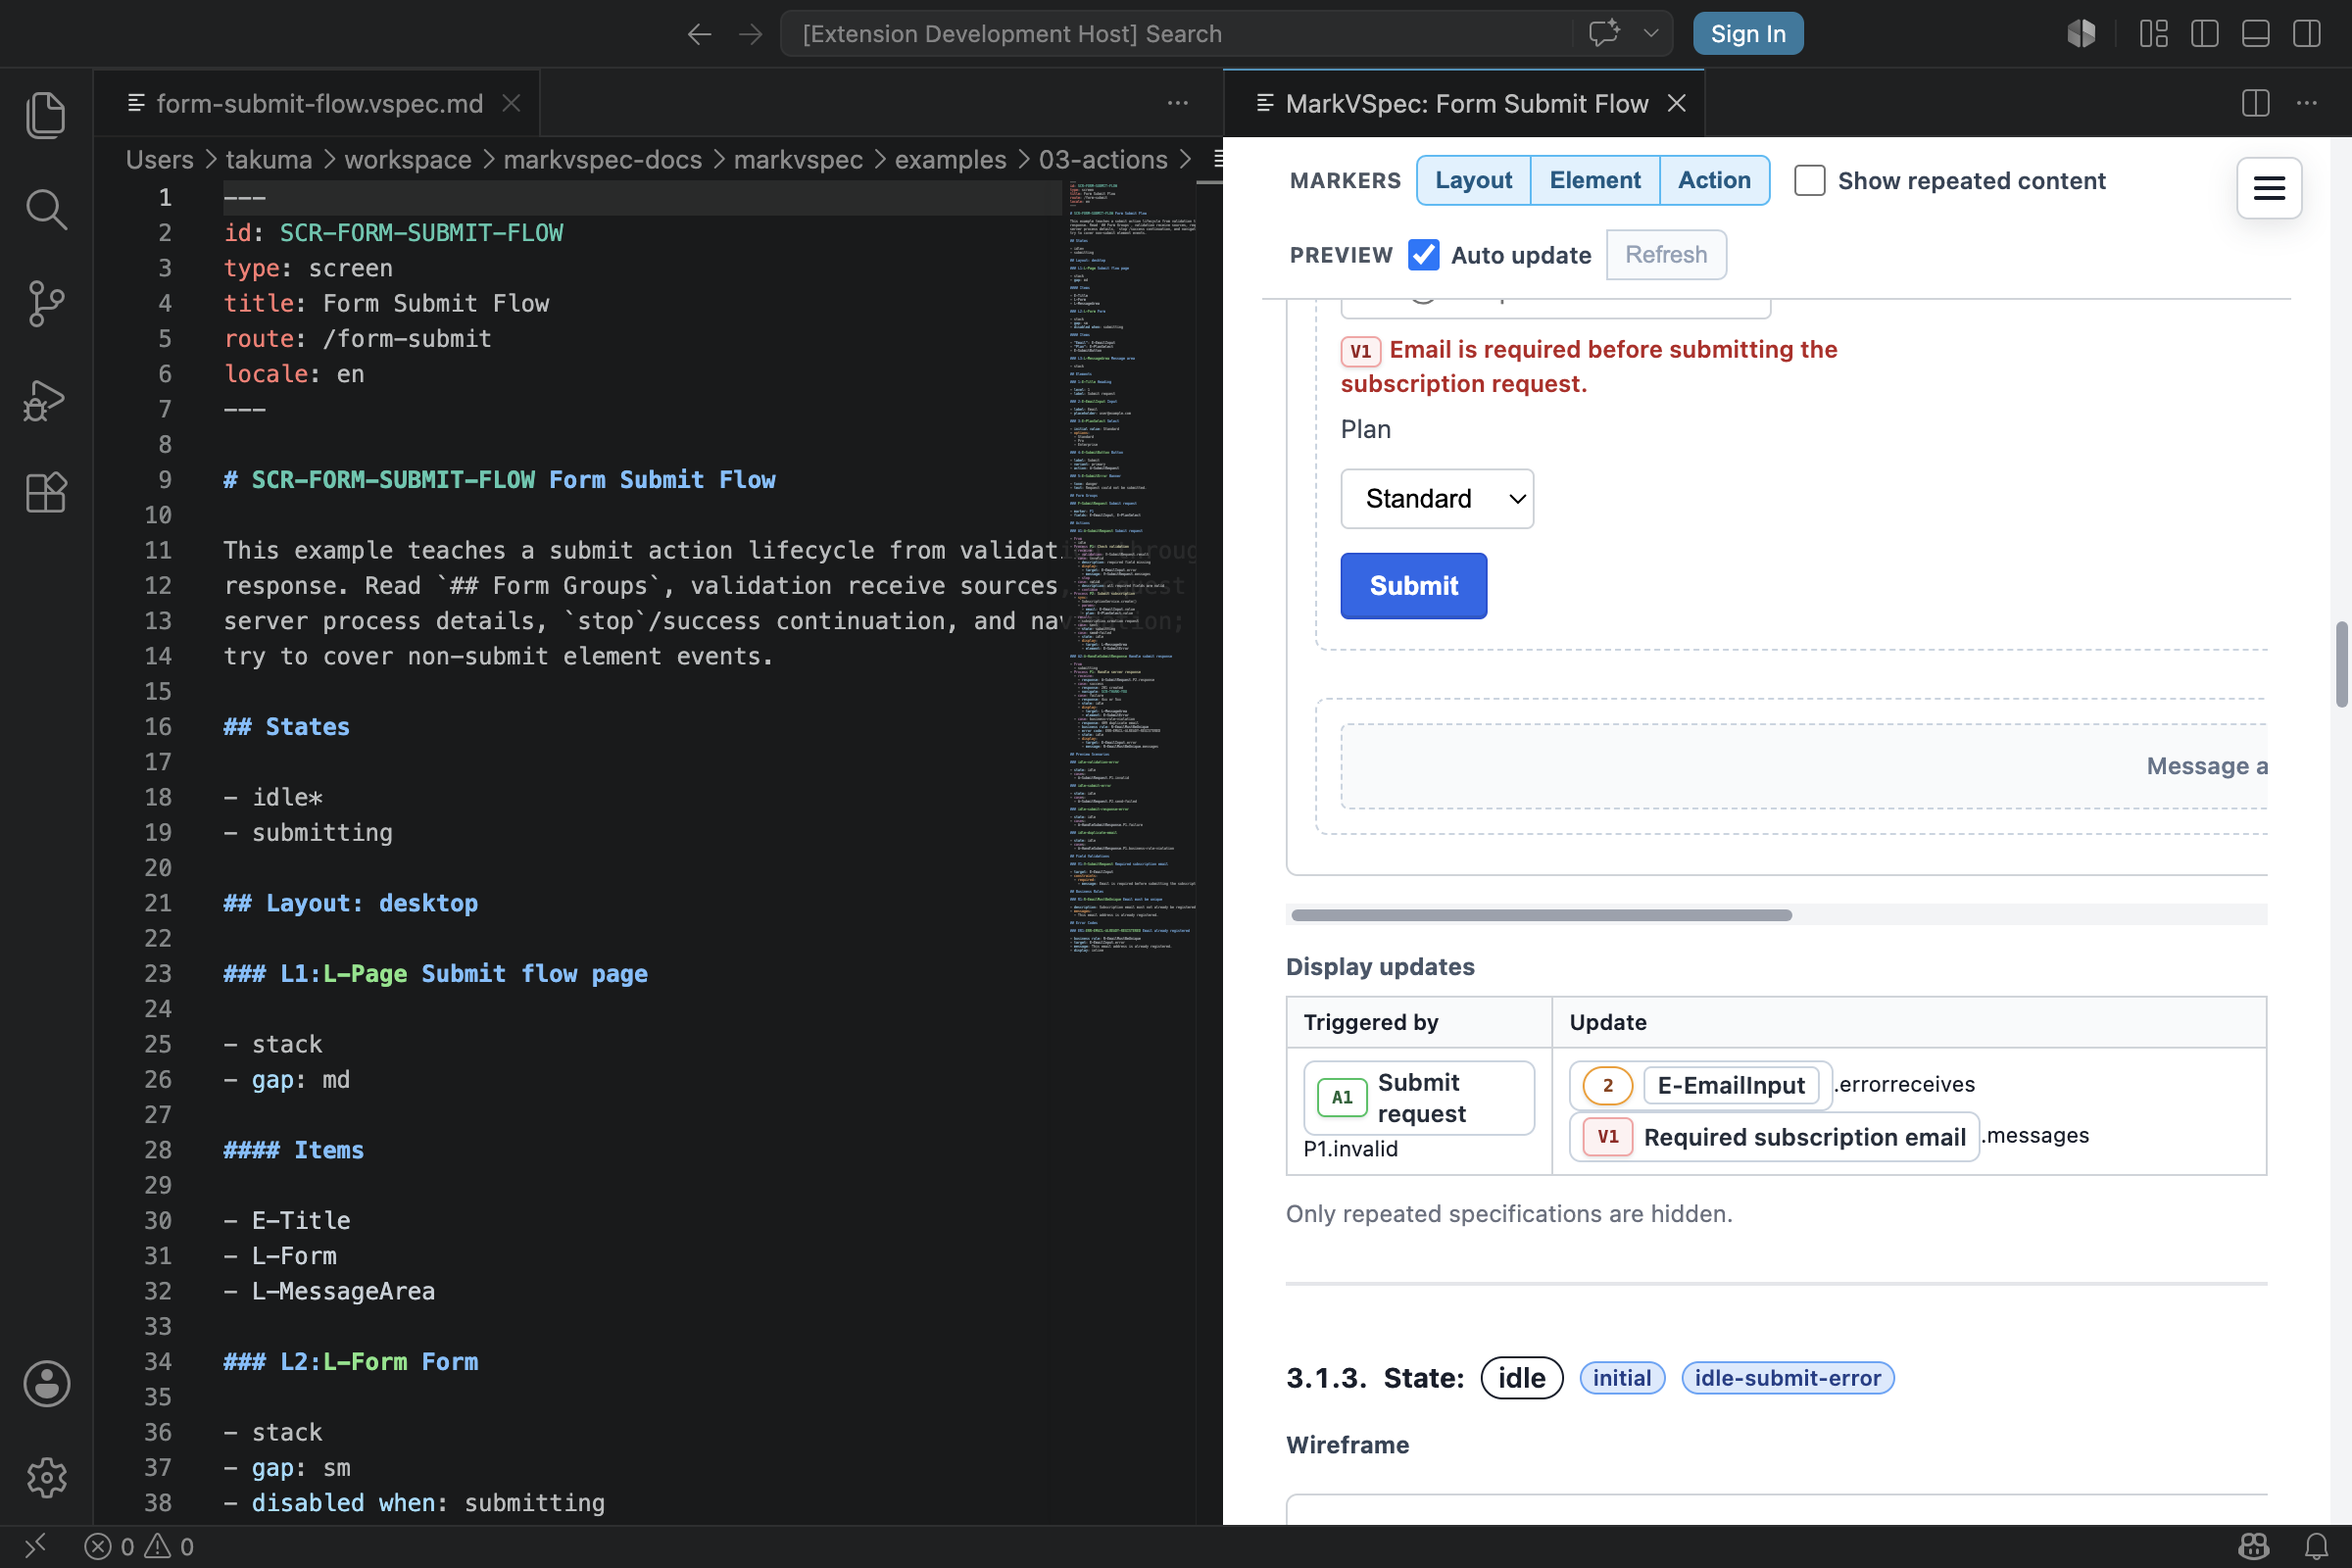
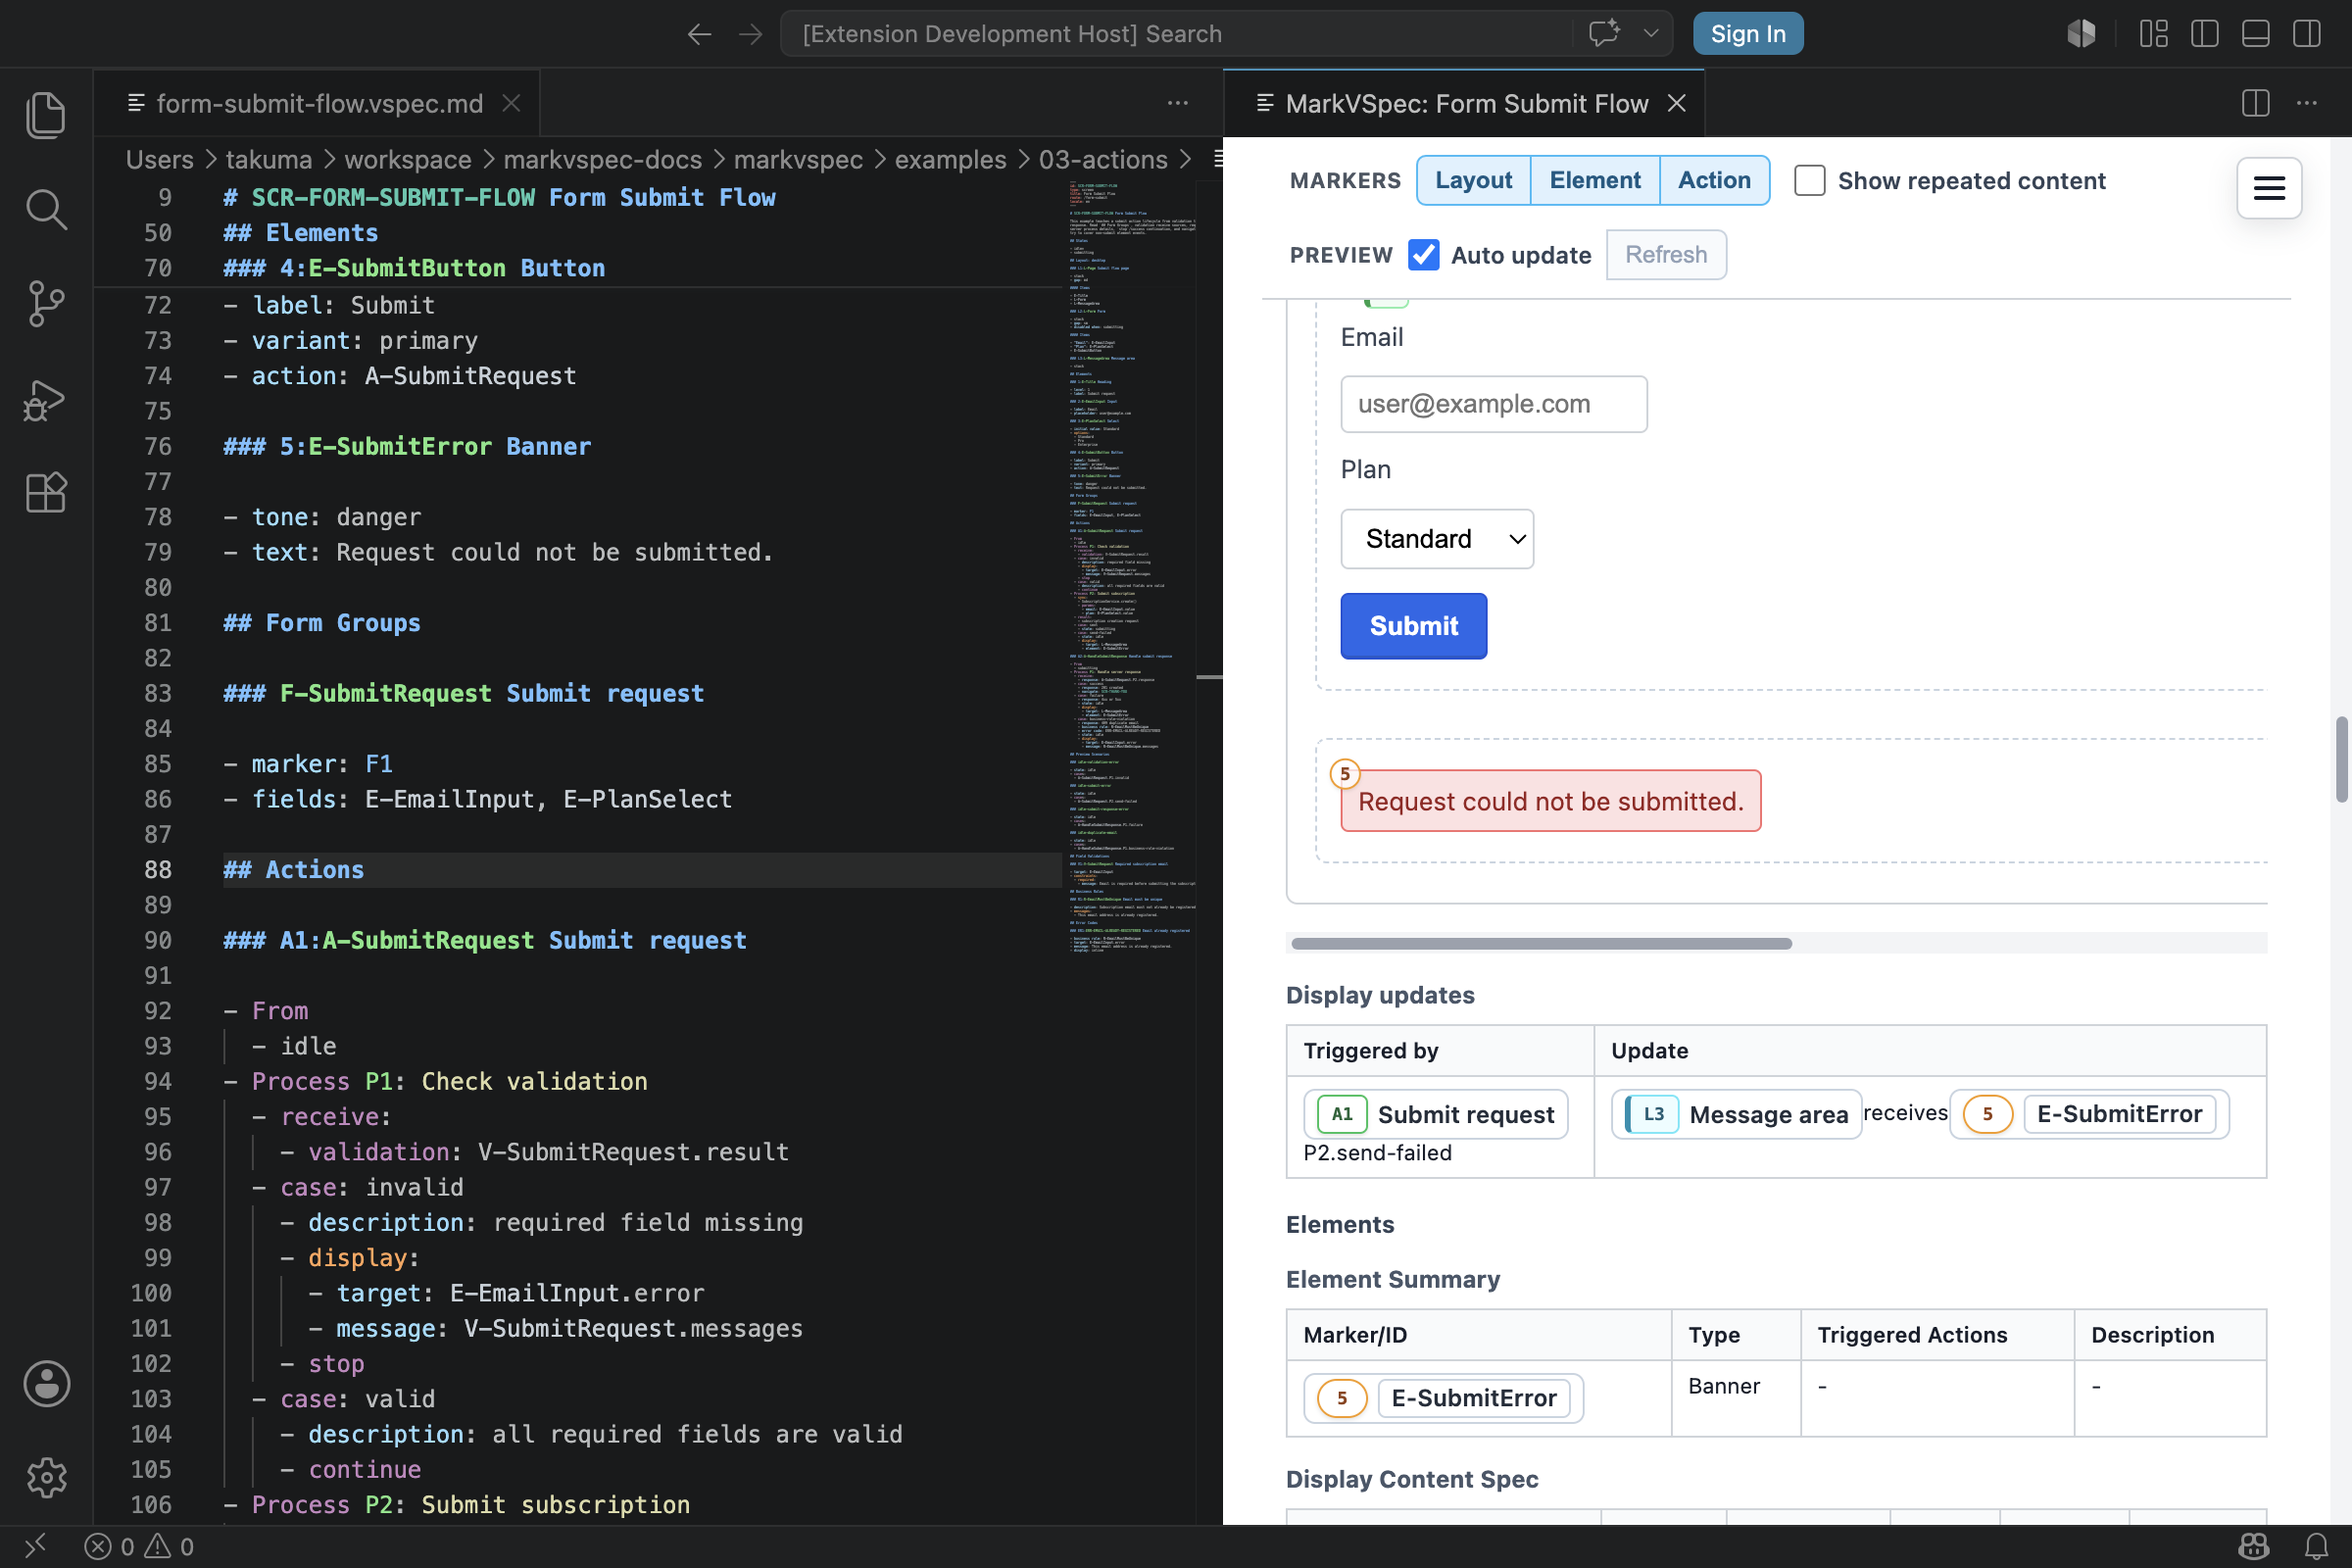
Align actions guide preview with source

diff --git a/docs/en/guide/actions.md b/docs/en/guide/actions.md
@@ -13,16 +13,16 @@ Put the work under `Process Pn:`. For a server request, use `server:`; for scree
 ```markdown
 ## Actions
 
-### A-SubmitLogin Submit login
+### A-SubmitRequest Submit request
 
-- Process P1: Send login request
-  - server:
-    - POST /login
+- From
+  - idle
+- Process P1: Submit subscription
   - case: sent
     - state: submitting
 ```
 
-The button connection lives on `E-SignInButton` with `action: A-SubmitLogin`. This example records the request start flow that needs review without depending on implementation function names.
+The button connection lives on `E-SubmitButton` with `action: A-SubmitRequest`. This example records the request start flow that needs review without depending on implementation function names.
 
 ## Common Patterns
 
@@ -39,41 +39,39 @@ The button connection lives on `E-SignInButton` with `action: A-SubmitLogin`. Th
 ```markdown
 ## Actions
 
-### A-SubmitProfile Submit profile
+### A-SubmitRequest Submit request
 
 - From
   - idle
-- Process P1: Send profile request
-  - server:
-    - POST /profile
-    - params:
-      - name: E-NameInput.value
-      - email: E-EmailInput.value
+- Process P1: Check validation
+  - receive:
+    - validation: V-SubmitRequest.result
+  - case: invalid
+    - display:
+      - target: E-EmailInput.error
+      - message: V-SubmitRequest.messages
+    - stop
+- Process P2: Submit subscription
   - case: sent
     - state: submitting
 
-### A-HandleProfileResponse Handle profile response
+### A-HandleSubmitResponse Handle submit response
 
 - From
   - submitting
-- Process P1: Apply profile response
+- Process P1: Handle server response
   - receive:
-    - response: A-SubmitProfile.P1.response
+    - response: A-SubmitRequest.P2.response
   - case: success
-    - state: saved
-    - display:
-      - target: L-MessageArea
-      - content: Saved message
-  - case: validation-error
-    - state: input-error
-    - display:
-      - target: L-MessageArea
-      - content: Validation error message
+    - navigate: SCR-THANK-YOU
   - case: failure
-    - state: error
+    - state: idle
+    - display:
+      - target: L-MessageArea
+      - element: E-SubmitError
 ```
 
-This keeps request parameters, in-flight state, and result-specific UI changes in one place. In VS Code preview, you can switch states and verify which case creates which UI.
+This keeps validation, request start, response handling, and result-specific UI changes in one place. In VS Code preview, you can switch states and verify which case creates which UI.
 
 ![Form Submit Flow action preview](../../assets/vscode-previews/form-submit-flow-vscode-preview.png)
 

diff --git a/docs/ja/guide/actions.md b/docs/ja/guide/actions.md
@@ -7,25 +7,31 @@ button や link には `action: A-*` を付けます。`## Actions` には、そ
 ## まずこれだけ
 
 ```markdown
-### E-SaveButton Button
+### E-SubmitButton Button
 
-- label: Save
-- action: A-Save
+- label: Submit
+- action: A-SubmitRequest
 
 ## Actions
 
-### A-Save Save
+### A-SubmitRequest Submit request
 
 - From
   - idle
-- Process P1: Send save request
-  - server:
-    - POST /settings
+- Process P1: Check validation
+  - receive:
+    - validation: V-SubmitRequest.result
+  - case: invalid
+    - display:
+      - target: E-EmailInput.error
+      - message: V-SubmitRequest.messages
+    - stop
+- Process P2: Submit subscription
   - case: sent
-    - state: saving
+    - state: submitting
 ```
 
-preview では、`Save` button と `A-Save` のつながり、`idle` から `saving` への変化を確認できます。
+preview では、`Submit` button と `A-SubmitRequest` のつながり、validation error の表示差し替え、`idle` から `submitting` への変化を確認できます。
 
 ![Form Submit Flow の action preview](../../assets/vscode-previews/form-submit-flow-vscode-preview.png)
 
@@ -42,23 +48,20 @@ preview では、`Save` button と `A-Save` のつながり、`idle` から `sav
 ## よく使う形
 
 ```markdown
-### A-HandleSaveResponse Handle save response
+### A-HandleSubmitResponse Handle submit response
 
 - From
-  - saving
-- Process P1: Apply response
+  - submitting
+- Process P1: Handle server response
   - receive:
-    - response: A-Save.P1.response
+    - response: A-SubmitRequest.P2.response
   - case: success
-    - state: saved
-    - display:
-      - target: L-MessageArea
-      - content: Saved message
+    - navigate: SCR-THANK-YOU
   - case: failure
-    - state: error
+    - state: idle
     - display:
       - target: L-MessageArea
-      - content: Save error message
+      - element: E-SubmitError
 ```
 
 ここで重要なのは、実装関数名ではなく「ユーザーに見える結果」が読めることです。
